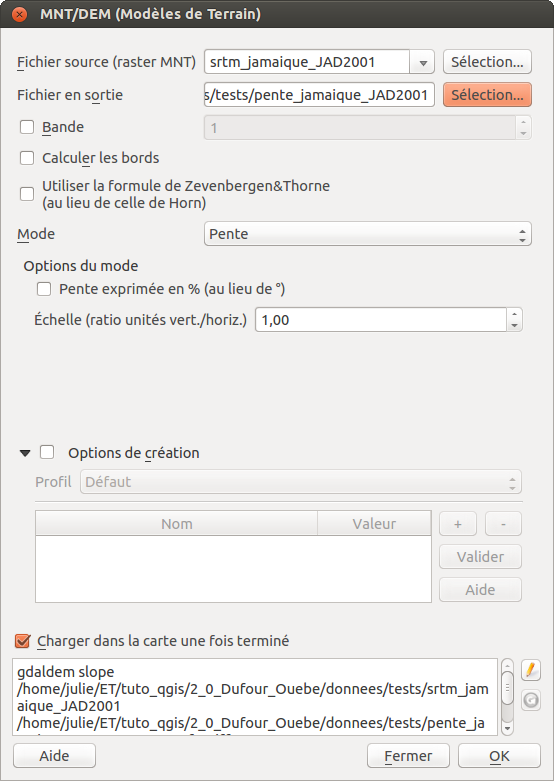
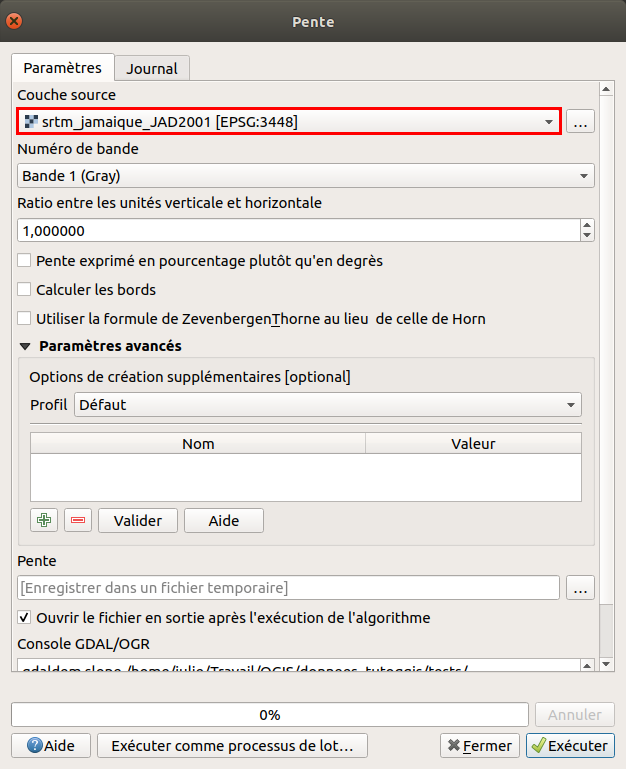
update to QGIS 3.4 - spatial analysis

Changed region(s): [[0.0, 0.0, 1.0, 1.0], [0.7058, 0.5618, 0.7978, 0.593], [0.583, 0.5618, 0.6137, 0.593]]

diff --git a/09_02_raster.php b/09_02_raster.php
@@ -349,26 +349,23 @@
     				<h4><a class="titre" id="IX24c">Calcul de pente à partir du raster projeté</a></h4>
     				
     					<div class="manip">
-    						<p>Rendez-vous dans le
-    							<a class="thumbnail_bottom" href="#thumb">Menu Raster &#8594; Analyse &#8594; MNT/DEM (Modèles de terrain)
+    						<p>Rendez-vous dans la 
+    							<a class="thumbnail_bottom" href="#thumb">boîte à outils &#8594; GDAL &#8594; Analyse raster &#8594; Pente
     								<span>
-    									<img src="illustrations/tous/9_2_pente_menu.png" alt="Menu Raster, Analyse, MNT/DEM (Modèles de terrain)" height="250" >
+    									<img src="illustrations/tous/9_2_pente_menu.png" alt="Menu Raster, Analyse, MNT/DEM (Modèles de terrain)" width="90%" >
     								</span>
     							</a>
     						:</p>
     						<figure>
     							<a href="illustrations/tous/9_2_pente_fenetre.png">
-    								<img src="illustrations/tous/9_2_pente_fenetre.png" alt="Fenêtre de calcul de pente" width="500" >
+    								<img src="illustrations/tous/9_2_pente_fenetre.png" alt="Fenêtre de calcul de pente" width="90%" >
     							</a>
     						</figure>
     						<ul>
-    							<li class="espace"><b>Fichier source :</b> sélectionnez <em class="data">srtm_jamaique_JAD2001</em></li>
-    							<li class="espace"><b>Fichier en sortie :</b> cliquez sur <b>Sélection...</b> et sélectionnez l'emplacement de la couche qui sera créée, tapez son nom : <em class="data">pente_jamaique_JAD2001</em></li>
-    							<li class="espace"><b>Mode :</b> choisir <b>Pente</b> dans la liste déroulante</li>
-    							<li class="espace">Cochez la case <b>Charger dans la carte une fois terminé</b></li>
+    							<li class="espace">Couche source : sélectionnez <em class="data">srtm_jamaique_JAD2001</em></li>
     							<li class="espace">Laissez les autres paramètres par défaut (pour plus d'infos sur les méthodes de Zevenberger & Thorne et Horn : <a class="ext" target="_blank" href="http://www.macaulay.ac.uk/LADSS/documents/DEMs-for-spatial-modelling.pdf" >http://www.macaulay.ac.uk/LADSS/documents/DEMs-for-spatial-modelling.pdf</a>, pp. 12 et 13).</li>
     						</ul>
-    						<p>Cliquez sur <b>OK</b>, patientez... la couche s'affiche :</p>
+    						<p>Cliquez sur <b>Exécuter</b>, patientez... la couche s'affiche :</p>
     						<figure>
     							<a href="illustrations/tous/9_2_pente_res.png">
     								<img src="illustrations/tous/9_2_pente_res.png" alt="la couche de pentes" width="600" >
@@ -383,6 +380,8 @@
     						</figure>
     						<p>Ici, le pixel a une pente de 13,5° environ.</p>
     					</div>
+    					
+    					<p>Il existe beaucoup d'autres traitements possibles sur les données raster. Mais pourquoi toujours opposer raster et vecteur&nbsp;? Dans le prochain chapitre, découvrez comment les faire fonctionner main dans la main&nbsp;!</p>
 			
 		
 				<br>
